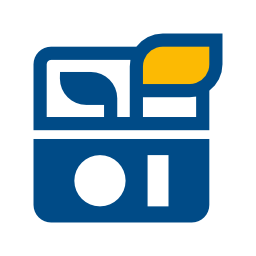
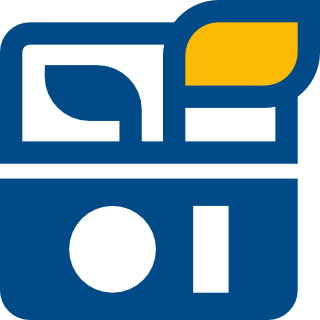
Update to v1.0.0.1: multi-targeting, docs, metadata
Expanded .NET support to 6.0–10.0 with conditional dependencies. Updated NuGet version and project metadata. Improved documentation, migration guides, and nullability handling. Refreshed icon and included it in the package. Added explicit build configs for Debug/Release. Minor code doc clarifications.

diff --git a/src/XpressCache/Extensions.cs b/src/XpressCache/Extensions.cs
@@ -28,7 +28,7 @@ internal static class Extensions
     {
         if ((g ?? Guid.Empty) == Guid.Empty) throw new ArgumentNullException(paramName: paramName, message: message);
 
-        return (Guid)g;
+        return (Guid)g!;
     }
 
     public static bool AssertTrue(this bool? b, string paramName, string? message = null)
@@ -59,14 +59,14 @@ internal static class Extensions
     {
         if ((o?.Count ?? 0) == 0) throw new ArgumentNullException(paramName: paramName, message: message);
 
-        return o;
+        return o!;
     }
 
     public static T[] AssertNotEmpty<T>(this T[]? o, string paramName, string? message = null) where T : class
     {
         if ((o?.Length ?? 0) == 0) throw new ArgumentNullException(paramName: paramName, message: message);
 
-        return o;
+        return o!;
     }
 
     public static string AssertNotWhiteSpace(this string? s, string paramName, string? message = null)

diff --git a/src/XpressCache/CacheStore.cs b/src/XpressCache/CacheStore.cs
@@ -38,7 +38,6 @@ namespace XpressCache;
 ///     <term>Efficient Time Handling</term>
 ///     <description>
 ///       Uses <see cref="Environment.TickCount64"/> for expiry checks instead of <see cref="DateTime.Now"/>,
-
 ///       which is significantly faster and avoids timezone/DST issues.
 ///     </description>
 ///   </item>
@@ -219,7 +218,7 @@ public sealed class CacheStore : ICacheStore
     /// <para>
     /// The key stores a direct <see cref="Type"/> reference rather than a hash code to ensure
     /// correct identity comparison. Different types may have colliding hash codes, but 
-    /// <see cref="ReferenceEquals"/> guarantees correct type identity. This eliminates the risk
+    /// <see cref="Object.ReferenceEquals"/> guarantees correct type identity. This eliminates the risk
     /// of silent cache corruption from hash collisions.
     /// </para>
     /// </remarks>

diff --git a/src/XpressCache/ICacheStore.cs b/src/XpressCache/ICacheStore.cs
@@ -134,7 +134,6 @@ public interface ICacheStore
     /// <typeparam name="T">The type of the cached item. Must be a reference type.</typeparam>
     /// <param name="entityId">
     /// The unique identifier of the entity. If <c>null</c> or <see cref="Guid.Empty"/>,
-
     /// returns <c>default</c> without executing recovery.
     /// </param>
     /// <param name="subject">
@@ -245,7 +244,6 @@ public interface ICacheStore
     /// <typeparam name="T">The type of the item to cache. Must be a reference type.</typeparam>
     /// <param name="entityId">
     /// The unique identifier of the entity. If <c>null</c> or <see cref="Guid.Empty"/>,
-
     /// the operation is a no-op.
     /// </param>
     /// <param name="subject">

diff --git a/doc/Known-Issues.md b/doc/Known-Issues.md
@@ -8,7 +8,7 @@ This document tracks known issues, limitations, and planned enhancements for Xpr
 
 #### ~~Custom Validation with Cached Items~~ ✅ FIXED in v1.0.1
 **Status:** ✅ Resolved  
-**Affected Version:** 1.0.0  
+**Affected Version:** 1.0.0.1  
 **Fixed in:** v1.0.1  
 
 **Issue:** When `customValidate` was provided, the fast-path cache hit was bypassed, forcing the async validation path which acquired locks unnecessarily and called recovery even for cache hits.
@@ -22,7 +22,7 @@ This document tracks known issues, limitations, and planned enhancements for Xpr
 
 **Migration Guide:**
 ```csharp
-// Before (v1.0.0) - forced async path, called recovery unnecessarily
+// Before (v1.0.0.1) - forced async path, called recovery unnecessarily
 var item = await cache.LoadItem<T>(
     id, subject, recovery,
     customValidate: async (x) => await ValidateAsync(x)
@@ -54,7 +54,7 @@ var item = await cache.LoadItem<T>(
 
 #### ~~Nullable Reference Types Not Enabled~~ ✅ COMPLETED
 **Status:** ✅ Resolved  
-**Affected Version:** 1.0.0  
+**Affected Version:** 1.0.0.1  
 **Fixed in:** v1.0.1
 
 **Issue:** Project did not have nullable reference types enabled at project level.
@@ -69,7 +69,7 @@ var item = await cache.LoadItem<T>(
 
 #### ~~Performance Tests May Interfere with Unit Tests~~ ✅ COMPLETED
 **Status:** ✅ Resolved  
-**Affected Version:** 1.0.0  
+**Affected Version:** 1.0.0.1  
 **Fixed in:** v1.0.1
 
 **Issue:** Performance/benchmark tests ran in the same test suite as unit tests, potentially causing resource contention and timeouts in CI environments.
@@ -213,7 +213,7 @@ See [Testing-Guide.md](Testing-Guide.md) for complete documentation.
 - [ ] Remove deprecated features
 - [ ] Optimize data structures based on production usage
 
-**Est. Release:** 12+ months after 1.0.0
+**Est. Release:** 12+ months after 1.0.0.1
 
 ---
 
@@ -241,7 +241,7 @@ See [Testing-Guide.md](Testing-Guide.md) for complete documentation.
 
 #### Migration
 ```csharp
-// Old code (v1.0.0)
+// Old code (v1.0.0.1)
 await cache.LoadItem(id, subject, recovery, 
     customValidate: async x => x.IsValid);
 
@@ -254,7 +254,7 @@ await cache.LoadItem(id, subject, recovery,
     asyncValidate: async x => await CheckAsync(x));
 ```
 
-### v1.0.0 (Initial Release)
+### v1.0.0.1 (Initial Release)
 
 - Initial implementation with cache stampede prevention
 - Multi-targeting: .NET 6.0, 7.0, 8.0

diff --git a/README.md b/README.md
@@ -12,7 +12,7 @@ A high-performance, thread-safe in-memory cache for .NET with built-in cache sta
 - 🛡 **Cache Stampede Prevention**: Per-key single-flight locking prevents thundering herd problems
 - ⏳ **Sliding Expiration**: Automatic TTL renewal on access with configurable expiry policies
 - ⚙ **Flexible Configuration**: Control stampede prevention globally or per-call
-- 🎯 **Multi-Targeting**: Supports .NET 6.0, .NET 7.0, and .NET 8.0
+- 🎯 **Multi-Targeting**: Supports .NET 6.0, .NET 7.0, .NET 8.0, .NET 9.0, and .NET 10.0
 - 🧹 **Automatic Cleanup**: Probabilistic and manual cleanup of expired entries
 - 🧪 **Custom Validation**: Support for custom validation functions on cached items
 - 📚 **Fully Documented**: Comprehensive XML documentation for all public APIs

diff --git a/doc/Getting-Started.md b/doc/Getting-Started.md
@@ -49,7 +49,7 @@ Check that the package is referenced in your `.csproj` file:
 
 ```xml
 <ItemGroup>
-  <PackageReference Include="XpressCache" Version="1.0.0" />
+  <PackageReference Include="XpressCache" Version="1.0.0.1" />
 </ItemGroup>
 ```
 
